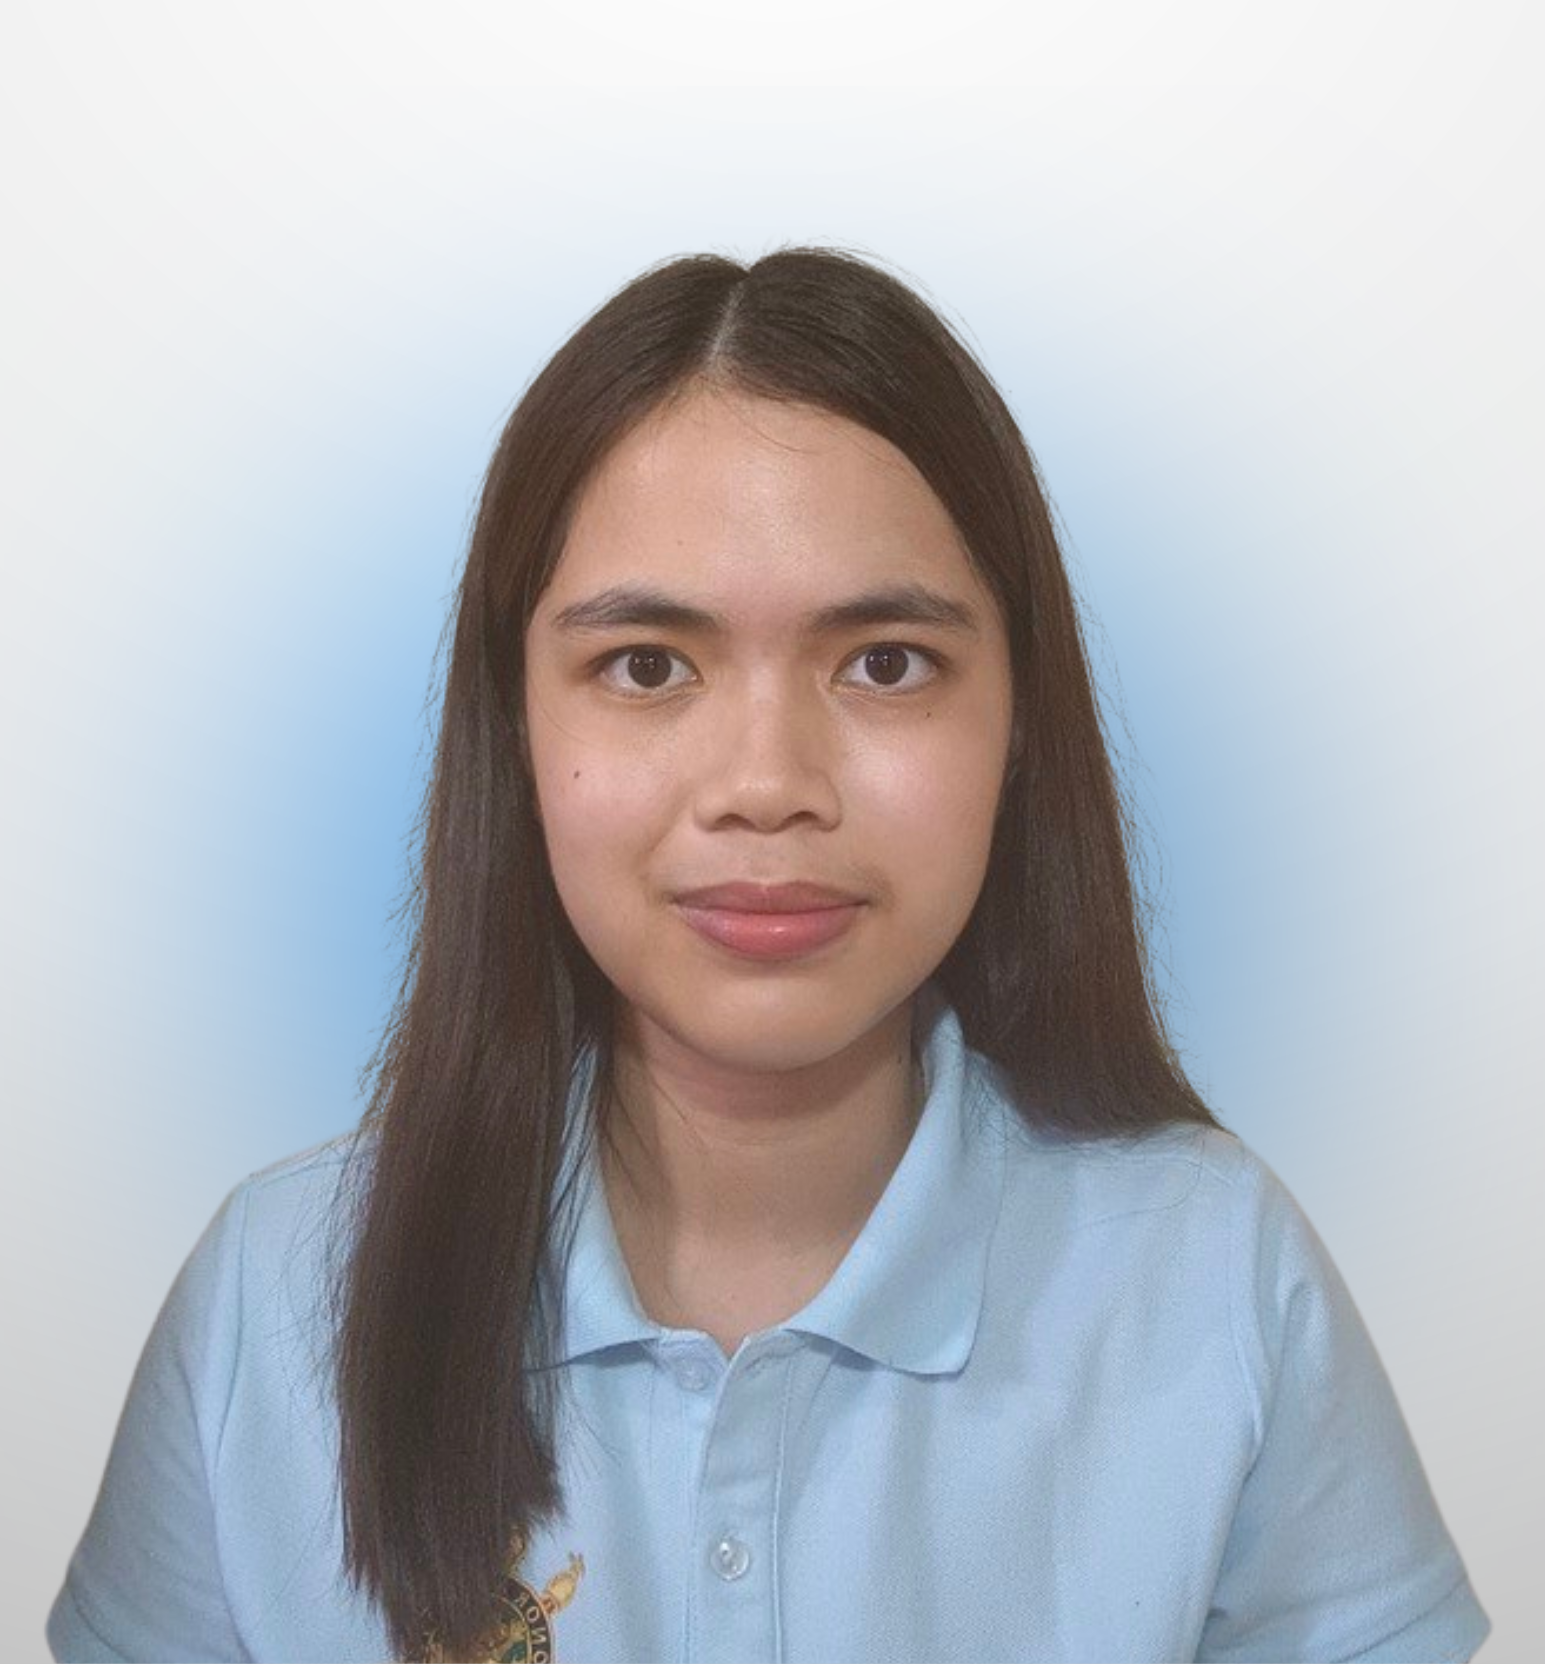
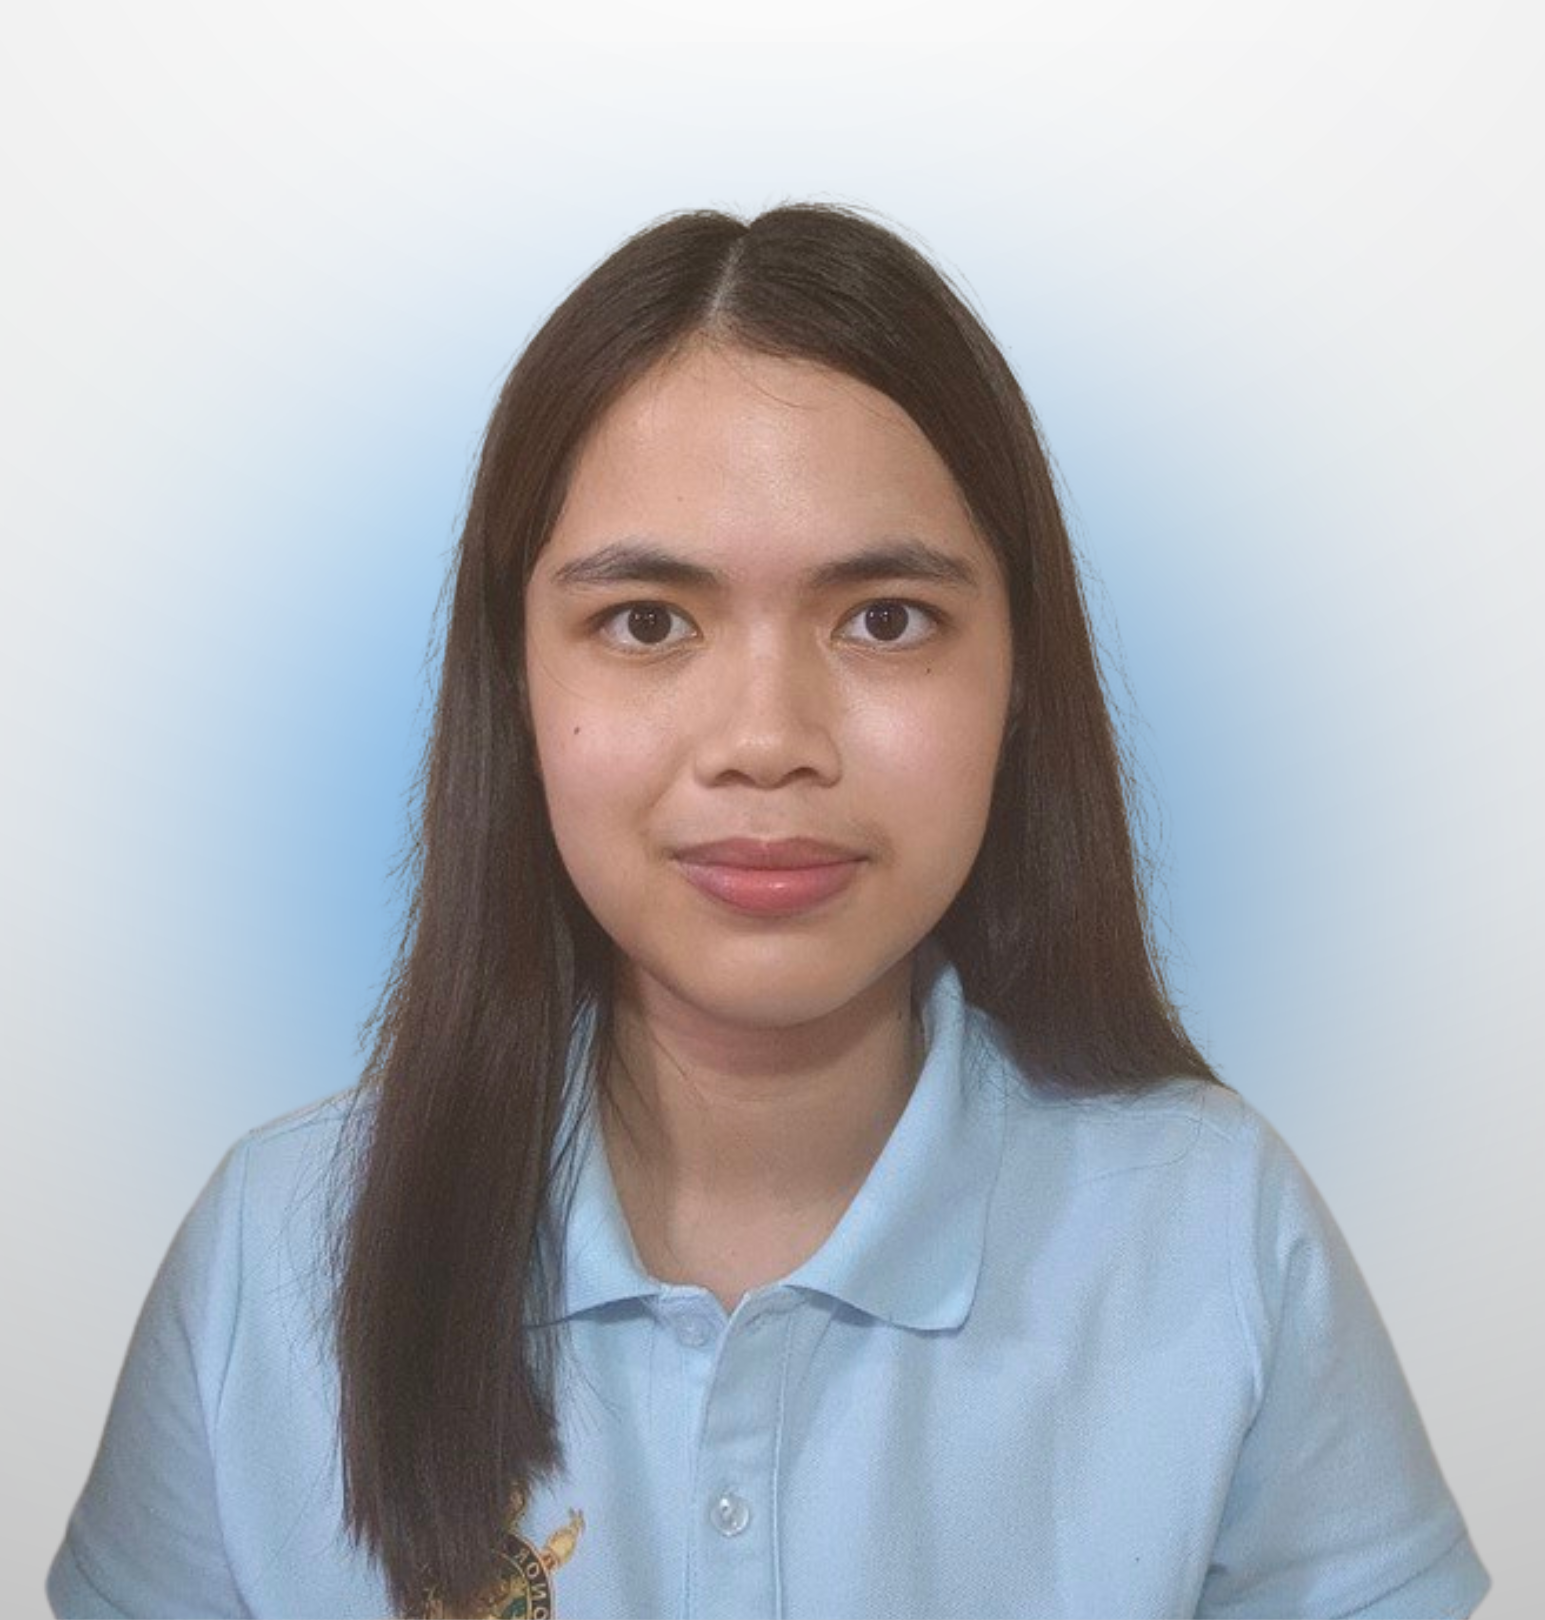
updated project page

diff --git a/index.html b/index.html
@@ -41,12 +41,12 @@
     </div>
     </nav>
     <div class="container-content">
-        <div  class="containerAboutMe topSpace" id="about">
-            <div class="containerPicture">
+        <div class="containerInfoLanding">
+            <div id="containerAboutImg">
                 <img id="picID" src="assets/picture.png" alt="my ID picture">
             </div>
 
-            <div class="containerAbout">
+            <div class="containerAbout" id="about">
                 <div class="containerAboutDetails">
                     <h2 class="titlePage black marginNone">Pauline Ann P. Bautista</h2>
                     <h3 class="heading1 marginNone blue">3rd Year Computer Science Student</h3> 
@@ -84,9 +84,7 @@
                     </table>
                 </div>
 
-                <div class="whitespace">
 
-                </div>
 
                 <div class="containerAboutSocials">
                     <ul class="listSocials list-no-bullet">
@@ -98,6 +96,8 @@
                     </ul>
                 </div>
             </div>
+
+            
         </div>
 
         <!-- skills page -->
@@ -241,6 +241,28 @@
         <h2 class="titlePage centered black marginNoneBottom darkblue topSpace" id="portfolio">Programming Projects</h2>
 
         <div class="containerPortfolio flex">
+            <div class="containerProject">
+                <a href="https://paulineeannn.github.io/Webdev-Responsive-Coffee-Shop-/" target="_blank"><img class="projectPic marginNone" src="assets/portfolio/0.1.png"></a>
+                <h2 class="heading1 darkblue marginNone projectTitle">Jake's Coffee Shop</h2>
+                <p class="description">A responsive website for a fictional coffee shop for an activity in web development course.</p>
+                <div class="containerTags">
+                    <p>HTML</p>
+                    <p>CSS</p>
+                    <p>JavaScript</p>
+                </div>
+            </div>
+
+            <div class="containerProject">
+                <a href="https://paulineeannn.github.io/webdev-registration-form/" target="_blank"><img class="projectPic marginNone" src="assets/portfolio/0.2.png"></a>
+                <h2 class="heading1 darkblue marginNone projectTitle">SheSharp++</h2>
+                <p class="description">A website for a fictional women's organization for an activity in web development course.</p>
+                <div class="containerTags">
+                    <p>HTML</p>
+                    <p>CSS</p>
+                    <p>JavaScript</p>
+                </div>
+            </div>
+
             <div class="containerProject">
                 <a href="https://drive.google.com/file/d/1kjfJMzsdo_Uajn6SuVege8YLkQU3BJBO/view?usp=sharing" target="_blank"><img class="projectPic marginNone" src="assets/portfolio/1.png"></a>
                 <h2 class="heading1 darkblue marginNone projectTitle">PUPFinds</h2>

diff --git a/styles.css b/styles.css
@@ -113,45 +113,59 @@ div {
     height: 65%;
 }
 
-/* About me page */
-.containerAboutMe {
-    width: 85%;
-    margin: auto;
-    display: flex;
-}
 
 .containerPicture {
     width: 35%;
+    height: 100%;
     background: #FFFFFF;
     display: flex;
     margin: 0;
     padding: 0;
+    overflow: hidden;
 }
 
+.containerDetailsTitle {
+    width: 5%;
+    text-align: left;
+}
+
+.containerDetailsColon {
+    margin-left: 2%;
+    margin-right: 2%;
+}
+
+.containerDetails {
+    width: 65%;
+    margin-left: 5%;
+    margin-top: 0;
+    padding-bottom: 12%;
+    height: 100%;
+}
+
+.containerAbout {
+    width: 75%;
+    height: 100%;
+    display: flex;
+    flex-direction: column;
+    overflow: hidden;
+    object-fit:contain;
+}
+
+
 #picID {
-    max-width: 100%;
-    max-height: 100%;
-    object-fit: contain;
-    object-position: top;
+
+    object-fit:cover;
+    overflow: hidden;
     margin: 0;
     padding: 0; 
 }
 
-.containerAbout {
-    width: 65%;
-    height: 100%;
-    display: flex;
-    flex-direction: column;
-    margin-bottom: 0px;
-}
+
 
 .containerAboutDetails {
     width: 95%;
     margin: 4% 15% 0 4%;
-}
-
-.whitespace{
-    flex-grow: 1;
+    height: 30%;
 }
 
 .containerAboutSocials {
@@ -160,6 +174,7 @@ div {
     background: #324E7B;
     display: flex;
     justify-content: space-between; 
+    align-self: flex-end;
 }
 
 .listSocials{
@@ -247,23 +262,6 @@ p {
     color:#5068A9;
 }
 
-.containerDetailsTitle {
-    width: 5%;
-    text-align: left;
-}
-
-.containerDetailsColon {
-    margin-left: 2%;
-    margin-right: 2%;
-}
-
-
-.containerDetails {
-    width: 60%;
-    margin-left: 5%;
-    margin-top: 0;
-    padding-bottom: 6%;
-}
 
 .containerSocials {
     display: flex;
@@ -535,3 +533,24 @@ footer {
     color: #FFFFFF;
     font-family: "Roboto", sans-serif;;
   }
+
+ .containerInfoLanding {
+    display: flex;
+    flex-direction: row;
+    background-color: #FFFFFF;
+    width: 85%;
+    margin: auto;
+    margin-top: 10%;
+    height: 70vh;
+ }
+
+ #containerAboutImg {
+    width: 30%;
+    display: flex;
+    overflow: hidden;
+    height: 100%;
+ }
+
+ #containerInfoDetails {
+    width: 70%;
+ }
